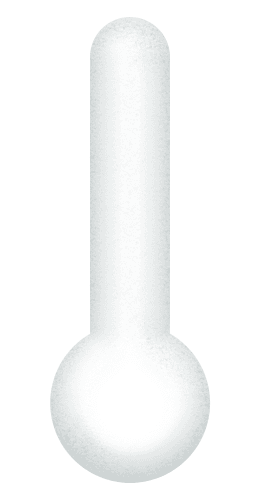
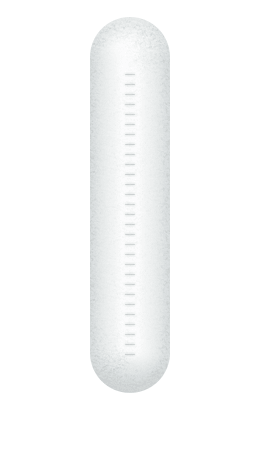
Made thermometer less phallic and more bubbly. CSS moved into homepage domain.

diff --git a/app/assets/stylesheets/home.css.less b/app/assets/stylesheets/home.css.less
@@ -102,3 +102,74 @@
     font-weight: normal;
   }
 }
+
+.bubble-mixin (){
+  1% {
+    top: 100%;
+    opacity: 1;
+  }
+  100%, 0% {
+    top: 20%;
+    opacity: 0;
+  }
+}
+
+@-webkit-keyframes bubble {.bubble-mixin}
+@-moz-keyframes bubble {.bubble-mixin}
+@-ms-keyframes bubble {.bubble-mixin}
+@-o-keyframes bubble {.bubble-mixin}
+@keyframes bubble {.bubble-mixin}
+
+
+.thermometer {
+  position: relative;
+  overflow: hidden;
+  .cover, .graph {
+    position: absolute;
+    top: 0;
+    left: 0;
+    width: 100%;
+    height: 100%;
+  }
+  .bg {
+    width: 100%;
+    height: auto;
+  }
+  .bubble1, .bubble2, .bubble3 {
+    position: absolute;
+    left: 50%;
+    border-radius: 50%;
+    background-color: rgba(255,255,255,0.1);
+    box-shadow: 0 0 3px rgba(255,255,255, 0.3) inset, 0 -4px 6px rgba(255,255,255, 0.3) inset, 0 4px 4px rgba(255,255,255, 0.3) inset;
+    -webkit-animation: bubble 3s ease-in infinite;
+    -moz-animation: bubble 3s ease-in infinite;
+    -ms-animation: bubble 3s ease-in infinite;
+    animation: bubble 3s ease-in infinite;
+  }
+  .bubble1 {
+    height: 20px;
+    width: 20px;
+    margin-left: -15px;
+    top: 30%;
+    -webkit-animation-duration: 6s;
+    -moz-animation-duration: 6s;
+    -ms-animation-duration: 6s;
+    animation-duration: 6s;
+  }
+  .bubble2 {
+    height: 10px;
+    width: 10px;
+    margin-left: 10px;
+    top: 40%;
+    -webkit-animation-duration: 4s;
+    -moz-animation-duration: 4s;
+    -ms-animation-duration: 4s;
+    animation-duration: 4s;
+  }
+  .bubble3 {
+    height: 4px;
+    width: 4px;
+    margin-left: -5px;
+    top: 60%;
+  }
+}

diff --git a/app/assets/stylesheets/shared_components.css.less b/app/assets/stylesheets/shared_components.css.less
@@ -211,19 +211,3 @@ a:hover .avatar {
     }
   }
 }
-
-.thermometer {
-  position: relative;
-  overflow: hidden;
-  .cover, .graph {
-    position: absolute;
-    top: 0;
-    left: 0;
-    width: 100%;
-    height: 100%;
-  }
-  .bg {
-    width: 100%;
-    height: auto;
-  }
-}
